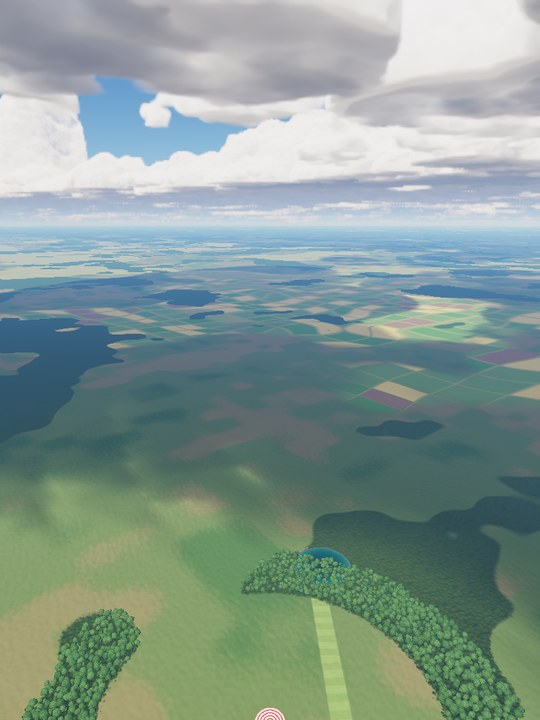
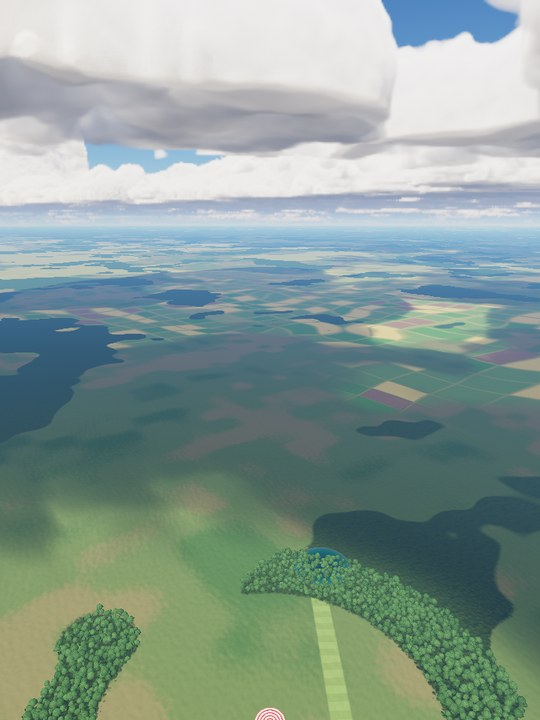
修瑕疵：熔岩湖变回橙色、雪山露岩鼓起来、雪山和火山撒石块、树种得更远、环礁椰子树的影子、出云更快、火山卡片换镜头
- 熔岩几乎不反光、亮度提高，隔着霾也是橙色；火山锥压暗
- 雪山露岩鼓出雪面四五米（TerrainField.h / .swift 同步），露岩上和火山口底散着石块
- 树种到靶周围两公里半，一公里开外用极简的棱锥
- 环礁椰子树位置改成写死的表，沙面着色按同一张表投影子
- 云层和出舱高度各降 300 米：出云到手表报警短了五六秒
- 火山卡片换成能看到烟柱的镜头，七张卡片重渲；README 更新

diff --git a/Freefall/Shared/PropBuilder.swift b/Freefall/Shared/PropBuilder.swift
@@ -191,12 +191,15 @@ extension PropBuilder {
     }
 
     /// 针叶树（云杉）：几层越往上越小的棱锥。near：近处的多一层、带树干
-    mutating func conifer(base: SIMD3<Float>, height: Float, near: Bool, seed: Int32) {
+    /// distant：一公里开外的，只剩一个四棱锥（12 个顶点）
+    mutating func conifer(base: SIMD3<Float>, height: Float, near: Bool, seed: Int32, distant: Bool = false) {
         let tint = 0.8 + 0.5 * Self.h01(seed, 3)
         let green = SIMD3<Float>(0.020, 0.046, 0.022) * tint
         let r = height * (0.17 + 0.05 * Self.h01(seed, 5))
         let phase = 6.28 * Self.h01(seed, 9)
-        if near {
+        if distant {
+            cone(base: base + SIMD3(0, height * 0.06, 0), radius: r * 1.05, height: height * 0.94, sides: 4, color: green * 1.05, material: PropMaterial.foliage, phase: phase)
+        } else if near {
             cone(base: base, radius: height * 0.022, height: height * 0.5, sides: 4, color: SIMD3(0.07, 0.05, 0.035), material: PropMaterial.bark)
             cone(base: base + SIMD3(0, height * 0.14, 0), radius: r, height: height * 0.45, sides: 6, color: green, material: PropMaterial.foliage, phase: phase)
             cone(base: base + SIMD3(0, height * 0.38, 0), radius: r * 0.72, height: height * 0.38, sides: 6, color: green * 1.08, material: PropMaterial.foliage, phase: phase + 0.5)
@@ -208,12 +211,15 @@ extension PropBuilder {
     }
 
     /// 阔叶树：树干上一两团树冠。green：这一关树叶的颜色
-    mutating func broadleaf(base: SIMD3<Float>, height: Float, near: Bool, seed: Int32, green: SIMD3<Float>) {
+    mutating func broadleaf(base: SIMD3<Float>, height: Float, near: Bool, seed: Int32, green: SIMD3<Float>, distant: Bool = false) {
         let tint = 0.8 + 0.45 * Self.h01(seed, 3)
         let c = green * tint
         let rx = height * (0.30 + 0.10 * Self.h01(seed, 5)), ry = height * (0.30 + 0.06 * Self.h01(seed, 6))
         let phase = 6.28 * Self.h01(seed, 9)
-        if near {
+        if distant {
+            // 一公里开外：一个矮胖的五棱锥当树冠（15 个顶点）
+            cone(base: base + SIMD3(0, height * 0.3, 0), radius: rx * 1.1, height: height * 0.7, sides: 5, color: c * 1.05, material: PropMaterial.foliage, phase: phase)
+        } else if near {
             cone(base: base, radius: height * 0.035, height: height * 0.62, sides: 4, color: SIMD3(0.075, 0.058, 0.04), material: PropMaterial.bark)
             blob(center: base + SIMD3(0, height * 0.66, 0), radius: SIMD3(rx, ry, rx), sides: 7, color: c, material: PropMaterial.foliage, phase: phase, seed: seed)
             let off = SIMD3<Float>(cos(phase), 0, sin(phase)) * rx * 0.6
@@ -225,9 +231,10 @@ extension PropBuilder {
     }
 
     /// 椰子树：歪着往上长的细树干，顶上一圈往下垂的大叶子
-    mutating func palm(base: SIMD3<Float>, height: Float, seed: Int32) {
-        let dir = 6.28 * Self.h01(seed, 3)
-        let leanTo = SIMD3<Float>(cos(dir), 0, sin(dir)) * height * (0.12 + 0.22 * Self.h01(seed, 4))
+    /// lean：树顶相对树根水平偏多少（不给就按 seed 随机）
+    mutating func palm(base: SIMD3<Float>, height: Float, seed: Int32, lean: SIMD3<Float>? = nil) {
+        let dir = lean.map { atan2($0.z, $0.x) } ?? 6.28 * Self.h01(seed, 3)
+        let leanTo = lean ?? SIMD3<Float>(cos(dir), 0, sin(dir)) * height * (0.12 + 0.22 * Self.h01(seed, 4))
         let bark = SIMD3<Float>(0.11, 0.09, 0.065)
         var p = base - SIMD3(0, 0.3, 0)
         var top = p

diff --git a/Freefall/Shared/PropsAtoll.swift b/Freefall/Shared/PropsAtoll.swift
@@ -14,15 +14,32 @@ enum AtollProps {
             SIMD3(center.x + sl.x * cosA - sl.y * sinA, 0, center.y + sl.x * sinA + sl.y * cosA)
         }
         func rnd(_ i: Int, _ k: Int32) -> Float { TerrainField.hash(Int32(i) &* 17, k) * 0.5 + 0.5 }
-        // 椰子树：两丛，离靶八九十米开外
-        for (ci, c) in [SIMD2<Float>(-112, 14), SIMD2<Float>(118, -18), SIMD2<Float>(-70, -52)].enumerated() {
-            for i in 0..<(ci == 2 ? 3 : 6) {
-                let off = SIMD2<Float>(rnd(i + ci * 10, 1) - 0.5, rnd(i + ci * 10, 2) - 0.5) * SIMD2(34, 22)
-                let p = ground(c + off)
-                let height = 6 + 4.5 * rnd(i + ci * 10, 3)
-                b.palm(base: p, height: height, seed: Int32(i + ci * 10) &* 7)
-                obstacles.append(.init(center: SIMD2(Double(p.x), Double(p.z)), radius: 1.6, top: Double(height)))
-            }
+        // 椰子树：三丛，离靶八九十米开外。位置、高矮、往哪边歪都写死在表里（沙洲坐标）：
+        // Freefall.metal 的 atollPalmShadow 里有同一张表，按它在沙上画影子，两边要一起改
+        let palms: [(Float, Float, Float, Float, Float)] = [
+            (-126, 8, 8.5, 0.4, 0.25),
+            (-118, 22, 7.0, 2.1, 0.18),
+            (-108, 3, 9.8, 4.0, 0.3),
+            (-103, 19, 6.4, 5.3, 0.14),
+            (-96, 10, 8.0, 1.2, 0.22),
+            (-121, -4, 7.4, 3.1, 0.28),
+            (106, -22, 9.2, 2.6, 0.24),
+            (114, -9, 6.8, 0.9, 0.16),
+            (121, -27, 8.3, 4.6, 0.3),
+            (127, -14, 7.2, 5.8, 0.2),
+            (111, -33, 10.1, 3.5, 0.26),
+            (133, -25, 6.5, 1.7, 0.15),
+            (-78, -49, 8.8, 0.2, 0.27),
+            (-66, -57, 7.1, 2.9, 0.19),
+            (-71, -44, 9.5, 4.9, 0.23),
+        ]
+        for (i, t) in palms.enumerated() {
+            let p = ground(SIMD2(t.0, t.1))
+            // 歪的方向是沙洲坐标里的，转到地面坐标
+            let l = SIMD2<Float>(cos(t.3), sin(t.3)) * (t.2 * t.4)
+            let lean = SIMD3<Float>(l.x * cosA - l.y * sinA, 0, l.x * sinA + l.y * cosA)
+            b.palm(base: p, height: t.2, seed: Int32(i) &* 7, lean: lean)
+            obstacles.append(.init(center: SIMD2(Double(p.x), Double(p.z)), radius: 1.6, top: Double(t.2)))
         }
         // 漂木：晒白了的树干，横七竖八躺在沙上
         for i in 0..<9 {

diff --git a/Freefall/Shared/JumpScene.swift b/Freefall/Shared/JumpScene.swift
@@ -78,13 +78,15 @@ enum JumpScene: Int, CaseIterable, Sendable, Identifiable {
     /// 飞机的高度（起跳的海拔）。着陆区上方 5,600 米（约 18,400 英尺）：到穿进那层雨云大约半分钟，
     /// 整个自由落体一分钟出头。第一版所有关都从 9,144 米（30,000 英尺）跳，光是到云层就要一分多钟，中间没什么事可做。
     /// 天空之城这一关云在岛下面、路上不穿云，再低一些
-    var exitAltitude: Double { dzElevation + (self == .sky ? 3400 : 5600) }
+    var exitAltitude: Double { dzElevation + (self == .sky ? 3400 : 5300) }
 
     var hasTerrain: Bool { self != .atoll }
 
     /// 云层整体抬高多少米：按着陆区的海拔抬，下雨的云层总在着陆区上空两三千米。
     /// 天空之城不抬：那层云（云顶 3,200 米）正好在岛下面，是一片云海；这一关下落不穿雨云
-    var cloudOffset: Double { self == .sky ? 0 : dzElevation }
+    // （整层再压低 300 米，出舱高度跟着降 300：出云到手表报警那一段短了五六秒，进云之前的时间不变。
+    // 试过压 600 米：到报警高度人还在云底的雾里，看不见地面）
+    var cloudOffset: Double { self == .sky ? 0 : dzElevation - 300 }
 
     /// 地形下面还有海（天空之城：岛是浮着的，地形网格只画岛，岛外往下看是云海和海面）
     var seaBelow: Bool { self == .sky }

diff --git a/Freefall/Shared/PropsVolcano.swift b/Freefall/Shared/PropsVolcano.swift
@@ -1,11 +1,24 @@
 import Foundation
 import simd
 
-/// 火山这一关的实体模型（见 SceneProps）。现在是空的
+/// 火山这一关的实体模型（见 SceneProps）
 enum VolcanoProps {
     static let layout: SkyCity.Layout = build()
 
     private static func build() -> SkyCity.Layout {
-        SkyCity.Layout()
+        // 破火山口底上的火山弹和熔岩块：喷出来落在灰地上的黑石头，大的两三米；熔岩流边上、靶周围不放（都不高，不算障碍）
+        var b = PropBuilder()
+        let spots = PropScatter.spots(scene: .volcano, radius: 1300, spacing: 13, full: 380) { p, h in
+            h > 5 && TerrainField.lavaFlowDistance(p) > 30 && simd_length(p - TerrainField.target) > 22
+                && simd_length(p - TerrainField.coneCenter) > 200 && TerrainField.slopeDegrees(.volcano, p) < 30
+        }
+        for s in spots {
+            guard b.v.count < 60_000 else { break }
+            let r = 0.3 + 1.6 * s.size * s.size * s.size
+            let a = 6.28 * TerrainField.hash(s.seed, 5)
+            b.blob(center: SIMD3(s.p.x, s.h + r * 0.35, s.p.y), radius: SIMD3(r * (1 + 0.4 * cos(a) * cos(a)), r * 0.8, r * (1 + 0.4 * sin(a) * sin(a))),
+                   sides: 6, color: SIMD3(0.035, 0.032, 0.034), material: PropMaterial.plain, phase: a, seed: s.seed)
+        }
+        return SkyCity.Layout(buildings: b.v)
     }
 }

diff --git a/Freefall/Shared/PropsIsland.swift b/Freefall/Shared/PropsIsland.swift
@@ -18,15 +18,16 @@ enum IslandProps {
             b.palm(base: SIMD3(s.p.x, s.h, s.p.y), height: height, seed: s.seed)
             obstacles.append(.init(center: SIMD2(Double(s.p.x), Double(s.p.y)), radius: 1.6, top: Double(s.h + height)))
         }
-        let spots = PropScatter.spots(scene: .island, radius: 1400, spacing: 9, full: 480) { p, h in
+        let spots = PropScatter.spots(scene: .island, radius: 2400, spacing: 9, full: 480) { p, h in
             h > 1 && TerrainField.islandForest(p) > 0.55 && TerrainField.slopeDegrees(.island, p) < 40
         }
         for s in spots {
             guard b.v.count < 170_000 else { break }
             let far = s.distance > 600
             let emergent: Float = s.size > 0.86 ? 1.6 : 1          // 隔几棵有一棵高出一头的大树
-            let height = (9 + 9 * s.size) * emergent * (far ? 1.2 : 1)
-            b.broadleaf(base: SIMD3(s.p.x, s.h - 0.4, s.p.y), height: height, near: !far, seed: s.seed, green: SIMD3(0.020, 0.068, 0.024))
+            let distant = s.distance > 1100
+            let height = (9 + 9 * s.size) * emergent * (distant ? 1.5 : far ? 1.2 : 1)
+            b.broadleaf(base: SIMD3(s.p.x, s.h - 0.4, s.p.y), height: height, near: !far, seed: s.seed, green: SIMD3(0.017, 0.056, 0.020), distant: distant)
         }
         return SkyCity.Layout(buildings: b.v, obstacles: obstacles)
     }

diff --git a/Freefall/Shared/PropsSnow.swift b/Freefall/Shared/PropsSnow.swift
@@ -1,11 +1,24 @@
 import Foundation
 import simd
 
-/// 雪山这一关的实体模型（见 SceneProps）。现在是空的
+/// 雪山这一关的实体模型（见 SceneProps）
 enum SnowProps {
     static let layout: SkyCity.Layout = build()
 
     private static func build() -> SkyCity.Layout {
-        SkyCity.Layout()
+        // 露岩上散着的石块：大大小小，朝上的面积着雪（都不高，不算障碍）
+        var b = PropBuilder()
+        let spots = PropScatter.spots(scene: .snow, radius: 1100, spacing: 7, full: 420) { p, _ in
+            TerrainField.snowOutcrop(p) > 0.385 && simd_length(p - TerrainField.target) > 150
+                && TerrainField.slopeDegrees(.snow, p) < 35
+        }
+        for s in spots {
+            guard b.v.count < 60_000 else { break }
+            let r = 0.35 + 1.5 * s.size * s.size
+            let a = 6.28 * TerrainField.hash(s.seed, 5)
+            b.blob(center: SIMD3(s.p.x, s.h + r * 0.3, s.p.y), radius: SIMD3(r * (1 + 0.5 * cos(a) * cos(a)), r * 0.75, r * (1 + 0.5 * sin(a) * sin(a))),
+                   sides: 6, color: SIMD3(0.085, 0.08, 0.08), material: PropMaterial.snowy, phase: a, seed: s.seed)
+        }
+        return SkyCity.Layout(buildings: b.v)
     }
 }

diff --git a/Freefall/Shared/PropsAlpine.swift b/Freefall/Shared/PropsAlpine.swift
@@ -8,14 +8,15 @@ enum AlpineProps {
     private static func build() -> SkyCity.Layout {
         // 林子：谷两边坡上的云杉。近处每棵都立起来，远处越来越稀（地面上画的林子接着）；顶点有上限，从近往远种
         var b = PropBuilder()
-        let spots = PropScatter.spots(scene: .alpine, radius: 1500, spacing: 8.5, full: 520) { p, h in
+        let spots = PropScatter.spots(scene: .alpine, radius: 2600, spacing: 8.5, full: 520) { p, h in
             TerrainField.alpineForest(p, h) > 0.55 && TerrainField.slopeDegrees(.alpine, p) < 42
         }
         for s in spots {
             guard b.v.count < 170_000 else { break }
             let far = s.distance > 650
-            let height = (13 + 11 * s.size) * (far ? 1.25 : 1)
-            b.conifer(base: SIMD3(s.p.x, s.h - 0.6, s.p.y), height: height, near: !far, seed: s.seed)
+            let distant = s.distance > 1100
+            let height = (13 + 11 * s.size) * (distant ? 1.6 : far ? 1.25 : 1)
+            b.conifer(base: SIMD3(s.p.x, s.h - 0.6, s.p.y), height: height, near: !far, seed: s.seed, distant: distant)
         }
         return SkyCity.Layout(buildings: b.v)
     }

diff --git a/Freefall/Shared/PropsGrassland.swift b/Freefall/Shared/PropsGrassland.swift
@@ -8,14 +8,15 @@ enum GrasslandProps {
     private static func build() -> SkyCity.Layout {
         // 树林：一棵棵阔叶树（橡树、白蜡），近处的带树干、两团树冠；远处越来越稀
         var b = PropBuilder()
-        let spots = PropScatter.spots(scene: .grassland, radius: 1500, spacing: 9, full: 480) { p, _ in
+        let spots = PropScatter.spots(scene: .grassland, radius: 2600, spacing: 9, full: 480) { p, _ in
             TerrainField.grasslandForest(p) > 0.55
         }
         for s in spots {
             guard b.v.count < 170_000 else { break }
             let far = s.distance > 600
-            let height = (10 + 8 * s.size) * (far ? 1.2 : 1)
-            b.broadleaf(base: SIMD3(s.p.x, s.h - 0.4, s.p.y), height: height, near: !far, seed: s.seed, green: SIMD3(0.034, 0.072, 0.022))
+            let distant = s.distance > 1100
+            let height = (10 + 8 * s.size) * (distant ? 1.5 : far ? 1.2 : 1)
+            b.broadleaf(base: SIMD3(s.p.x, s.h - 0.4, s.p.y), height: height, near: !far, seed: s.seed, green: SIMD3(0.034, 0.072, 0.022), distant: distant)
         }
         return SkyCity.Layout(buildings: b.v)
     }

diff --git a/Freefall/Shared/TerrainField.swift b/Freefall/Shared/TerrainField.swift
@@ -186,6 +186,8 @@ enum TerrainField {
 
     // MARK: - 雪山
 
+    static func snowOutcrop(_ p: SIMD2<Float>) -> Float { fbm(p / 160 + SIMD2(6, 2), 3) }
+
     static func snowHeight(_ p: SIMD2<Float>) -> Float {
         let sl = valleyCoords(p)
         let s = sl.x, l = sl.y
@@ -197,6 +199,7 @@ enum TerrainField {
         let ridges = ridged(p / 3000 + SIMD2(8.1, 0.4), 8)
         var h = floorH + wall + (ridges - 0.35) * mix(30, 1300, steep) + 4 * fbm(p / 260, 3) * (1 - steep)
         let r = simd_length(p - target)
+        h += 4.5 * smooth(0.33, 0.42, snowOutcrop(p)) * (1 - steep) * smooth(120, 200, r)
         h = mix(2750 + 0.6 * fbm(p / 60, 3), h, smooth(90, 300, r))
         return h
     }

diff --git a/tools/render-check/main.swift b/tools/render-check/main.swift
@@ -396,6 +396,8 @@ let revealShots: [Shot] = [
 /// 开始窗口里选关卡片的截图（每关一张，NOHUD=1 跑，裁成竖的）：伞下朝着靶飞，看得到地平线
 let cardShots: [Shot] = [
     Shot(name: "card", session: { deployed(16) }, yaw: 0, pitch: -16, fovY: 72, faceTarget: true),
+    // 火山单独一张：朝靶看拍不到火山锥和烟柱，往旁边转过去
+    Shot(name: "cardv", session: { deployed(16) }, yaw: 88, pitch: 3, fovY: 72),
 ]
 
 /// 机舱里（实体化完了以后）：扶杆近景、往机头看、地板、舱壁、座椅、跳板、舱顶

diff --git a/Freefall/Shaders/Terrain.h b/Freefall/Shaders/Terrain.h
@@ -223,7 +223,7 @@ kernel void generateSurfaceMap(texture2d<float, access::write> out [[texture(0)]
     } else if (scene == SCENE_SNOW) {
         // 雪坡上露出来的岩石：存一个宽的斜坡（0.5 是边），阈值留到像素里取。之前存的是卡过阈值的 0 / 1：
         // 过渡带不到一格（15.6 米），放大出来边是沿着格子走的台阶
-        v.b = saturate(0.5f + (tFbm(p / 160.0f + float2(6.0f, 2.0f), 3) - 0.36f
+        v.b = saturate(0.5f + (snowOutcrop(p) - 0.36f
                                - 0.8f * (1.0f - tSmooth(120.0f, 200.0f, length(p - LZ_TARGET)))) * 2.5f);
     } else if (scene == SCENE_ISLAND) {
         v.g = islandForest(p);
@@ -493,7 +493,7 @@ static inline Surface terrainSurface(int scene, float2 p, float h, float3 N, flo
         float sulfur = tSmooth(40.0f, 6.0f, decodeEdge(sm.a)) * tSmooth(0.45f, 0.7f, n2);
         floorC = mix(floorC, float3(0.30f, 0.25f, 0.07f), sulfur * 0.6f);
         // 火山锥上面是红褐色的火山渣
-        floorC = mix(floorC, float3(0.16f, 0.07f, 0.04f) * (1.0f + vary), tSmooth(CONE_BASE_RADIUS, 220.0f, rc));
+        floorC = mix(floorC, float3(0.05f, 0.026f, 0.019f) * (1.0f + vary), tSmooth(CONE_BASE_RADIUS, 220.0f, rc));
         // 外坡下面长着绿的（热带岛），海边是黑沙滩
         float green = tSmooth(2600.0f, 3200.0f, rk) * tSmooth(700.0f, 400.0f, h) * tSmooth(0.75f, 0.85f, flatness);
         float3 outside = mix(rock * 0.7f, float3(0.05f, 0.11f, 0.03f) * (1.0f + vary), green);
@@ -520,8 +520,11 @@ static inline Surface terrainSurface(int scene, float2 p, float h, float3 N, flo
             float core = saturate(-dl / 12.0f);
             float plates = 0.55f * n1 + 0.45f * n2;
             float crust = tSmooth(0.38f, 0.62f, plates) * (1.0f - 0.6f * core);
-            s.emission = mix(float3(1.1f, 0.10f, 0.01f), float3(2.2f, 0.52f, 0.05f), core * core) * 0.045f * (1.0f - 0.9f * crust);
-            s.albedo = mix(float3(0.08f, 0.03f, 0.02f), float3(0.03f), crust);
+            // （熔岩比太阳照着的地面亮得多：亮度不够的话，隔着一两公里的霾看过去，它那点橙色被霾的白盖掉，成了奶白色）
+            s.emission = mix(float3(1.1f, 0.10f, 0.01f) * 0.07f, float3(2.2f, 0.40f, 0.03f) * 0.14f, core * core) * (1.0f - 0.9f * crust);
+            // 熔岩几乎不反光（之前反照率 0.08：太阳一照，反射的光比它自己发的光还多、还是中性色，
+            // 整片熔岩湖被冲成奶白色）
+            s.albedo = mix(float3(0.02f, 0.008f, 0.006f), float3(0.012f), crust);
             s.material = MAT_LAVA;
         }
         if (h < 0.5f) s.material = MAT_WATER;

diff --git a/Freefall/Shaders/TerrainField.h b/Freefall/Shaders/TerrainField.h
@@ -238,6 +238,9 @@ static inline float alpineForest(float2 p, float h) {
 
 // MARK: - 雪山：高处的冰斗，一大片平的雪坡，四周是尖利的雪峰和岩壁
 
+/// 雪坡上露出来的岩石（地面类型图里存的也是它）：> 0.36 是岩石
+static inline float snowOutcrop(float2 p) { return tFbm(p / 160.0f + float2(6.0f, 2.0f), 3); }
+
 static inline float snowHeight(float2 p) {
     float2 sl = valleyCoords(p);
     float s = sl.x, l = sl.y;
@@ -250,6 +253,8 @@ static inline float snowHeight(float2 p) {
     float h = floorH + wall + (ridges - 0.35f) * mix(30.0f, 1300.0f, steep)
             + 4.0f * tFbm(p / 260.0f, 3) * (1.0f - steep);
     float r = length(p - LZ_TARGET);
+    // 露岩鼓出雪面四五米：有自己的明暗和轮廓（之前和雪面齐平，像贴在雪上的一张纸）
+    h += 4.5f * tSmooth(0.33f, 0.42f, snowOutcrop(p)) * (1.0f - steep) * tSmooth(120.0f, 200.0f, r);
     h = mix(2750.0f + 0.6f * tFbm(p / 60.0f, 3), h, tSmooth(90.0f, 300.0f, r));
     return h;
 }
